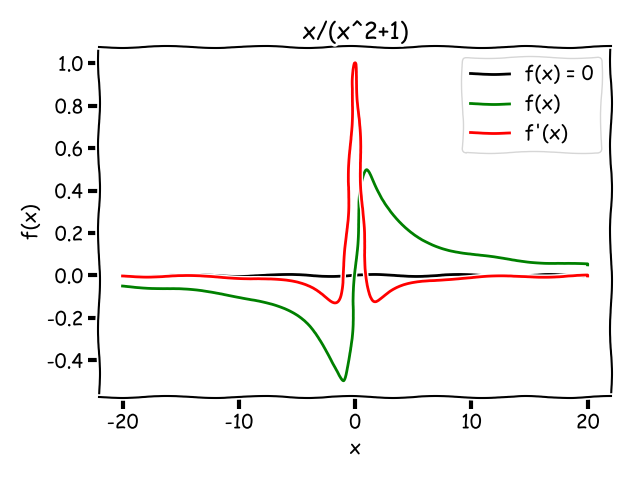
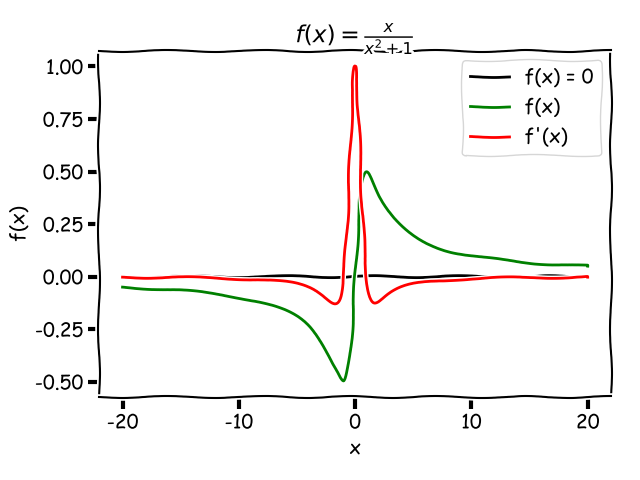
Add files via upload

diff --git a/matplotlib.pyplot-note/Graph1.py b/matplotlib.pyplot-note/Graph1.py
@@ -16,10 +16,10 @@ with plt.xkcd():
     fp = np.divide(dy, dx)
 
     plt.plot(x1,y1,'k', label='f(x) = 0')
-    plt.plot(x[0:9999],y[0:9999],'g', label="f(x)")
+    plt.plot(x[0:10000],y[0:10000],'g', label="f(x)")
     plt.plot(x[0:9999],fp,'r', label="f'(x)")
 
-    plt.title("x/(x^2+1)")
+    plt.title('$\mathit{f(x)=}$' + r'$\frac{x}{x^{2}+1}$')
     plt.xlabel("x")
     plt.ylabel("f(x)")
 
